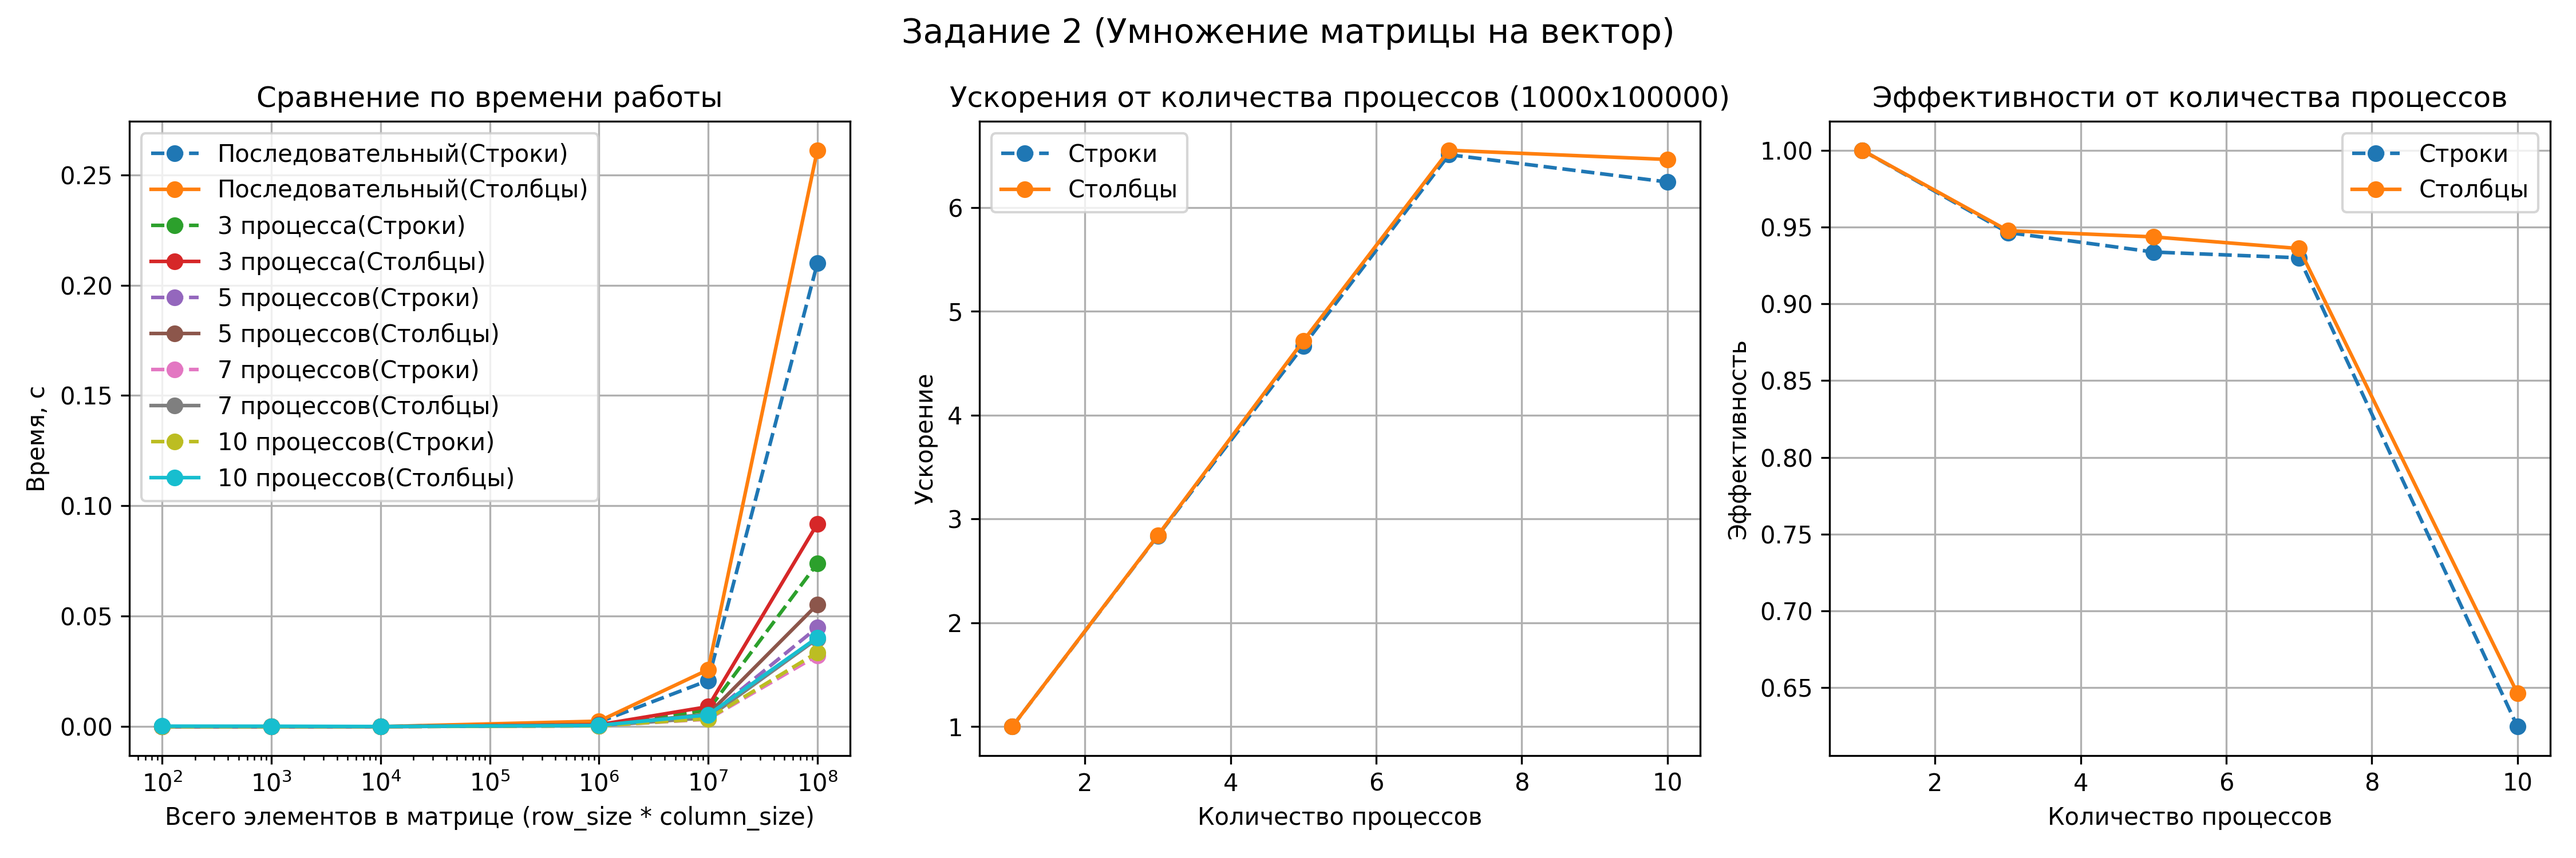
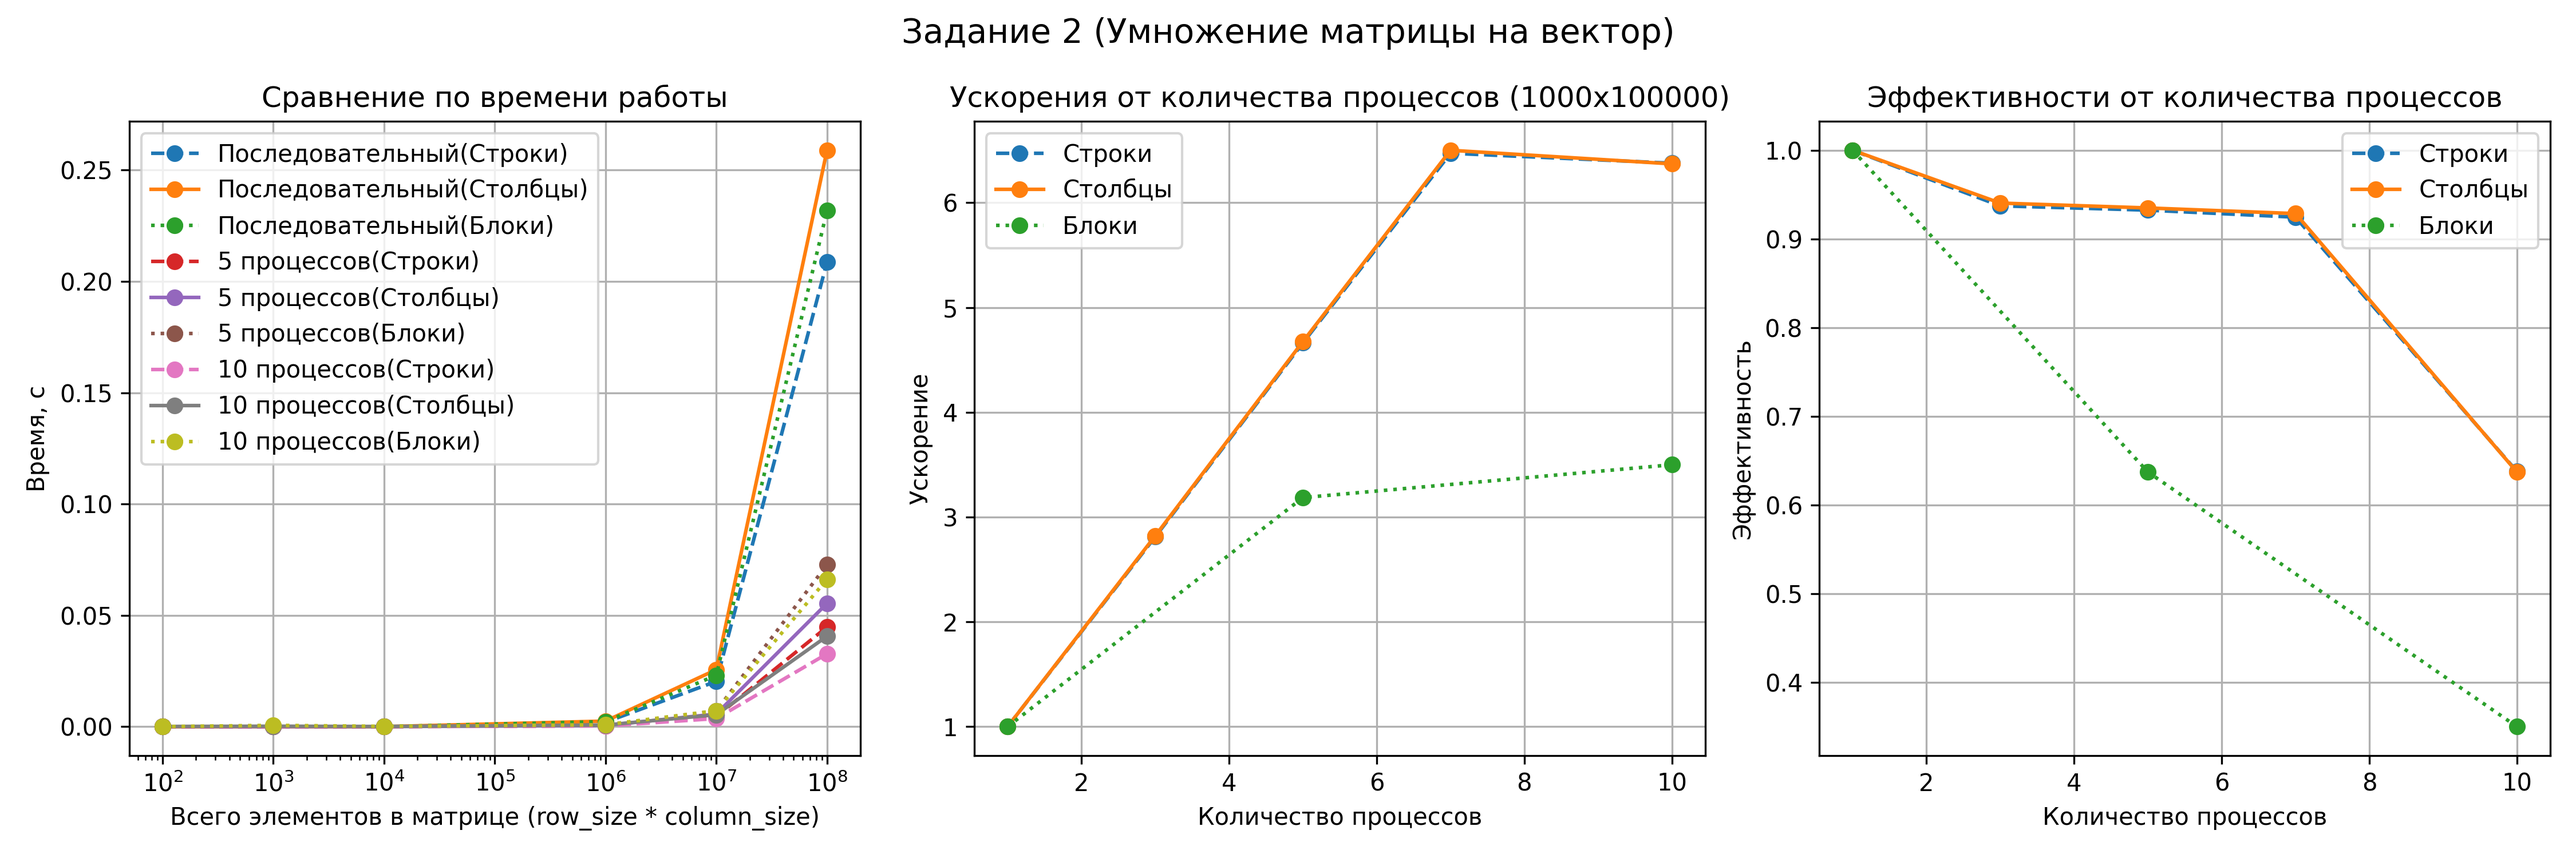
Second task completed

diff --git a/measure_time.py b/measure_time.py
@@ -124,6 +124,8 @@ def draw_graphs_second(output):
 
     for threads in threads_all:
         label = f"{threads} процесса"
+        if threads not in (1, 5, 10):
+            continue
         if threads == 1:
             label = "Последовательный"
         elif threads in (2, 3, 4):
@@ -134,8 +136,10 @@ def draw_graphs_second(output):
         cur_df = df_merged[df_merged['threads'] == threads].sort_values('size')
         rows = cur_df[cur_df['algorithm'] == 'rows']
         columns = cur_df[cur_df['algorithm'] == 'columns']
+        blocks = cur_df[cur_df['algorithm'] == 'blocks']
         axes[0].plot(rows["size"], rows["time_parallel"], "o--", label=label + '(Строки)')
         axes[0].plot(columns["size"], columns["time_parallel"], "o-", label=label + '(Столбцы)')
+        axes[0].plot(blocks["size"], blocks["time_parallel"], "o:", label=label + '(Блоки)')
     
     axes[0].set_title("Сравнение по времени работы")
     axes[0].set_xlabel("Всего элементов в матрице (row_size * column_size)")
@@ -148,9 +152,11 @@ def draw_graphs_second(output):
     cur_df = df_merged[df_merged['size'] == check_number]
     rows = cur_df[cur_df['algorithm'] == 'rows']
     columns = cur_df[cur_df['algorithm'] == 'columns']
+    blocks = cur_df[cur_df['algorithm'] == 'blocks']
 
     axes[1].plot(rows["threads"], rows["speedup"], "o--", label='Строки')
     axes[1].plot(columns["threads"], columns["speedup"], "o-", label='Столбцы')
+    axes[1].plot(blocks["threads"], blocks["speedup"], "o:", label='Блоки')
     axes[1].set_title("Ускорения от количества процессов (1000x100000)")
     axes[1].set_xlabel("Количество процессов")
     axes[1].set_ylabel("Ускорение")
@@ -159,6 +165,7 @@ def draw_graphs_second(output):
 
     axes[2].plot(rows["threads"], rows["efficiency"], "o--", label='Строки')
     axes[2].plot(columns["threads"], columns["efficiency"], "o-", label='Столбцы')
+    axes[2].plot(blocks["threads"], blocks["efficiency"], "o:", label='Блоки')
     axes[2].set_title("Эффективности от количества процессов")
     axes[2].set_xlabel("Количество процессов")
     axes[2].set_ylabel("Эффективность")
@@ -300,7 +307,7 @@ def first_task(args):
 def second_task(args):
     row_sizes = [10, 100, 1000]
     column_sizes = [10, 100000]
-    filenames = ['second_rows.c', 'second_columns.c']
+    filenames = ['second_blocks.c', 'second_rows.c', 'second_columns.c']
     executable_filenames = []
     
     for filename in filenames:
@@ -315,7 +322,9 @@ def second_task(args):
                     for column_size in column_sizes:
                         cur_string = ""
                         times_sum = 0.0
-                        for _ in range(args.retries):
+                        i = 0
+                        while i < args.retries:
+                            i += 1
                             # Execute + measure time
                             result = subprocess.run(
                                 [
@@ -330,13 +339,21 @@ def second_task(args):
                                 text=True,
                             )
                             stdout = result.stdout
+                            if 'Incorrect' in stdout:
+                                break
                             time_string = stdout[stdout.find("|") + 1 : stdout.rfind("|")]
-                            print(time_string)
                             cur_string = time_string[: time_string.rfind(",")]
-                            times_sum += float(time_string.split(",")[-1])
+                            try:
+                                times_sum += float(time_string.split(",")[-1])
+                            except:
+                                i -= 1
+                                continue
 
+                            print(time_string)
                             time.sleep(0.1)
 
+                        if len(cur_string) == 0:
+                            continue
                         cur_string = f"{algorithm},{threads},{cur_string},{str(times_sum / args.retries)}"
                         print("final: ", cur_string)
                         print(cur_string, file=f)

diff --git a/second_blocks.c b/second_blocks.c
@@ -1,0 +1,148 @@
+#include "clock.h"
+
+#include <mpi.h>
+#include <string.h>
+#include <stdio.h>
+#include <stdlib.h>
+#include <time.h>
+
+void FillVector(int *vector, int size, int my_rank)
+{
+    if (my_rank == 0)
+    {
+        for (int i = 0; i < size; ++i)
+        {
+            vector[i] = i % 5 + 1;
+        }
+    }
+    MPI_Bcast(vector, size, MPI_INT, 0, MPI_COMM_WORLD);
+}
+
+void MultiplyByBlock(int *matrix, int *vector, int *result, int block_rows, int block_cols, int my_rank, int coordI, int coordJ)
+{
+    for (int i = 0; i < block_rows; ++i)
+    {
+        for (int j = 0; j < block_cols; ++j)
+        {
+            int curI = i + block_rows * coordI;
+            int curJ = j + block_cols * coordJ;
+            result[curI] += matrix[i * block_cols + j] * vector[curJ];
+        }
+    }
+}
+
+int main(int argc, char **argv)
+{
+    int row_size = 1000, column_size = 1000;
+    if (argc > 2)
+    {
+        row_size = atoll(argv[1]);
+        column_size = atoll(argv[2]);
+    }
+
+    int comm_sz;
+    int my_rank;
+
+    MPI_Init(&argc, &argv);
+
+    MPI_Comm_size(MPI_COMM_WORLD, &comm_sz);
+    MPI_Comm_rank(MPI_COMM_WORLD, &my_rank);
+
+    if ((row_size * column_size) % comm_sz != 0)
+    {
+        if (my_rank == 0)
+        {
+            printf("Incorrect processes number (rows * columns should be divisible by processes)");
+        }
+        MPI_Finalize();
+        return 0;
+    }
+
+    int dims[2] = {0, 0};
+    MPI_Dims_create(comm_sz, 2, dims);
+
+    int p_row = dims[0];
+    int p_col = dims[1];
+    int block_rows = row_size / p_row;
+    int block_cols = column_size / p_col;
+
+    int periods[2] = {0, 0};
+    MPI_Comm grid_comm;
+    MPI_Cart_create(MPI_COMM_WORLD, 2, dims, periods, 0, &grid_comm);
+
+    int coords[2];
+    MPI_Cart_coords(grid_comm, my_rank, 2, coords);
+
+    int *matrix = NULL;
+    int *vector = calloc(column_size, sizeof(int));
+    int *local_matrix = calloc(block_rows * block_cols, sizeof(int));
+
+    if (my_rank == 0)
+    {
+        matrix = calloc(row_size * column_size, sizeof(int));
+        for (int i = 0; i < row_size * column_size; ++i)
+        {
+            matrix[i] = i % 5 + 1;
+        }
+    }
+    FillVector(vector, column_size, my_rank);
+
+    int *sendcounts = NULL;
+    int *displs = NULL;
+
+    if (my_rank == 0)
+    {
+        sendcounts = malloc(comm_sz * sizeof(int));
+        displs = malloc(comm_sz * sizeof(int));
+        for (int rank = 0; rank < comm_sz; rank++)
+        {
+            sendcounts[rank] = block_rows * block_cols;
+            displs[rank] = rank * block_rows * block_cols;
+        }
+        MPI_Scatterv(matrix, sendcounts, displs, MPI_INT, local_matrix, block_rows * block_cols, MPI_INT, 0, MPI_COMM_WORLD);
+        free(sendcounts);
+        free(displs);
+    }
+    else
+    {
+        MPI_Scatterv(NULL, NULL, NULL, MPI_INT, local_matrix, block_rows * block_cols, MPI_INT, 0, MPI_COMM_WORLD);
+    }
+
+    int *result = calloc(row_size, sizeof(int));
+    int *total = calloc(row_size, sizeof(int));
+
+    struct MyClock clock;
+    clock_start(&clock);
+
+    MultiplyByBlock(local_matrix, vector, result, block_rows, block_cols, my_rank, coords[0], coords[1]);
+    MPI_Reduce(result, total, row_size, MPI_INT, MPI_SUM, 0, MPI_COMM_WORLD);
+
+    clock_stop(&clock);
+
+    // Time measurement
+    double elapsed = clock_elapsed(&clock);
+    double max_elapsed;
+    MPI_Reduce(&elapsed, &max_elapsed, 1, MPI_DOUBLE, MPI_MAX, 0, MPI_COMM_WORLD);
+
+    if (my_rank == 0)
+    {
+        long long totalSum = 0;
+        for (int i = 0; i < row_size; ++i)
+        {
+            totalSum += total[i];
+        }
+        printf("|%lld,%d,%d,%f|\n", totalSum, row_size, column_size, max_elapsed);
+    }
+
+    if (my_rank == 0)
+    {
+        free(matrix);
+    }
+    free(local_matrix);
+    free(result);
+    free(total);
+    free(vector);
+
+    MPI_Finalize();
+    return 0;
+}
